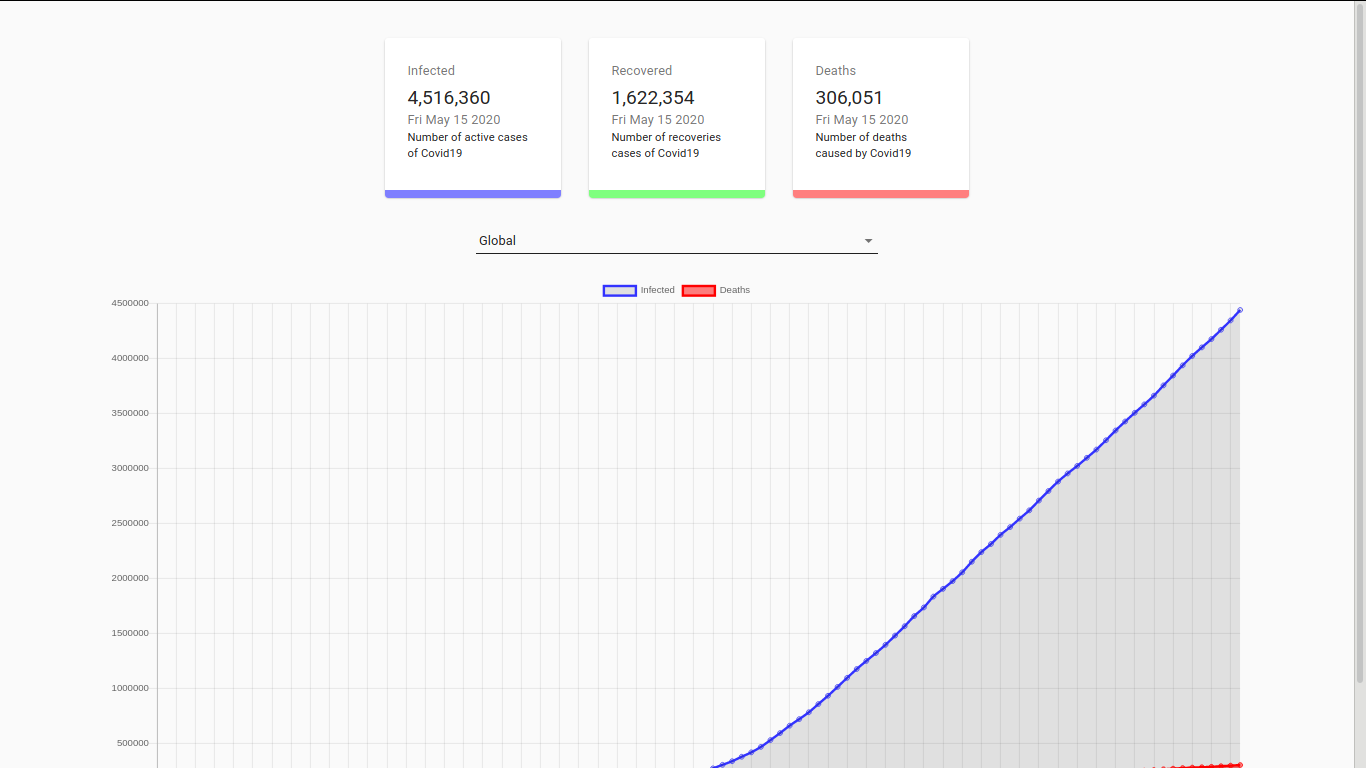
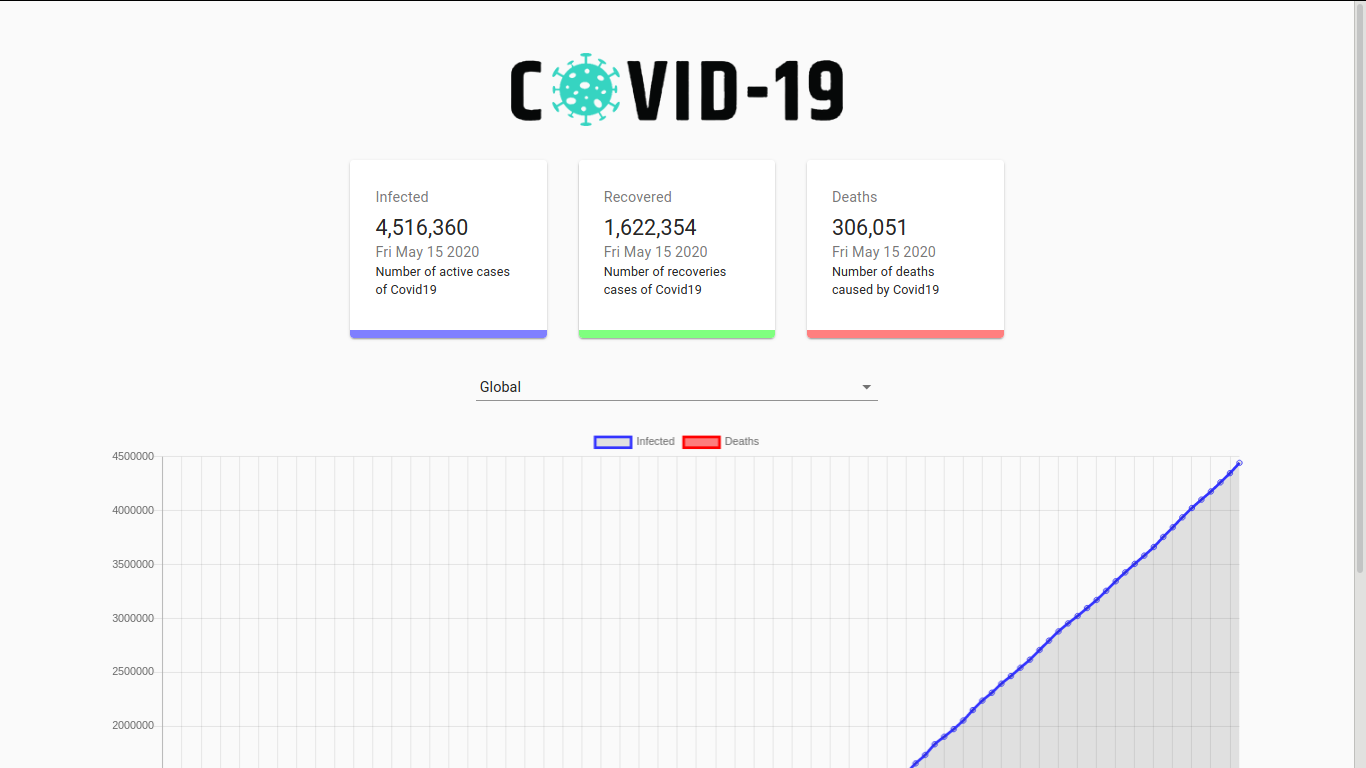
Added image

diff --git a/src/App.js b/src/App.js
@@ -6,6 +6,8 @@ import styles from './App.module.css'
 
 import { fetchData } from './api'
 
+import image from './assets/image.png'
+
 class App extends React.Component {
   state = {
     data: {},
@@ -27,6 +29,7 @@ class App extends React.Component {
 
     return (
       <div className={styles.container}>
+        <img src={image} alt="corongavairus" className={styles.image}/>
         <Card data={data} />
         <CountryPicker handleCountryChange={this.handleCountryChange}/>
         <Chart data={data} country={country}/>

diff --git a/src/App.module.css b/src/App.module.css
@@ -8,3 +8,18 @@ body{
   justify-content: center;
   flex-direction: column;
 }
+
+.image{
+  width: 370px;
+  margin-top: 50px;
+}
+
+@media (max-width: 770px){
+  .container{
+    margin: 0 10%;
+  }
+
+  .image{
+    width: 100%;
+  }
+}
